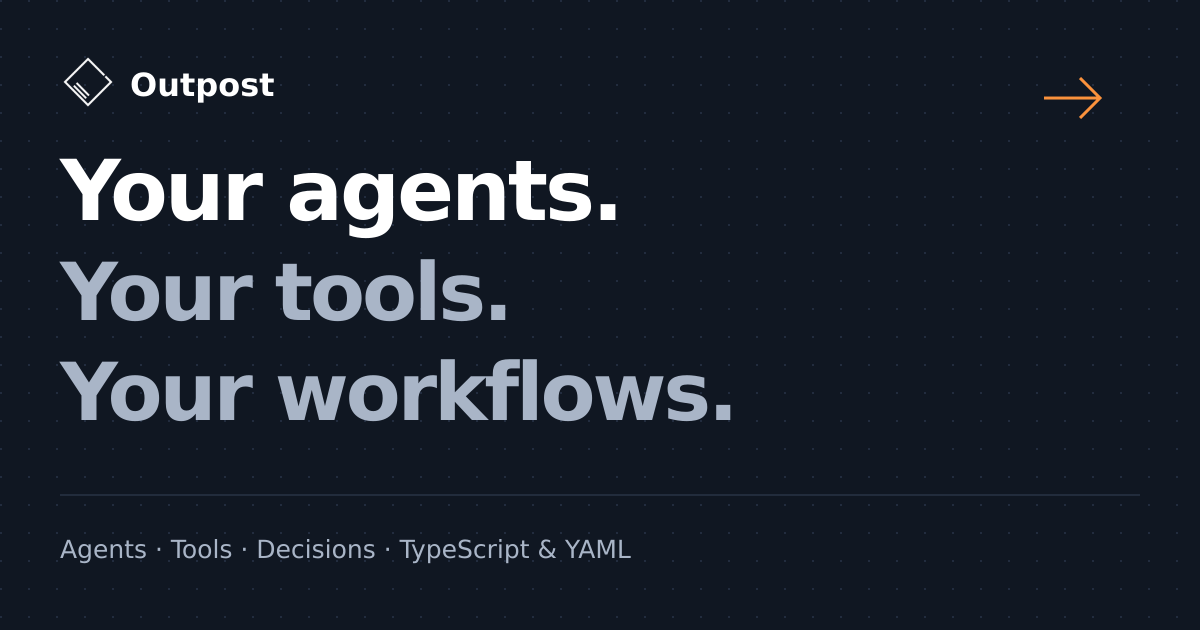
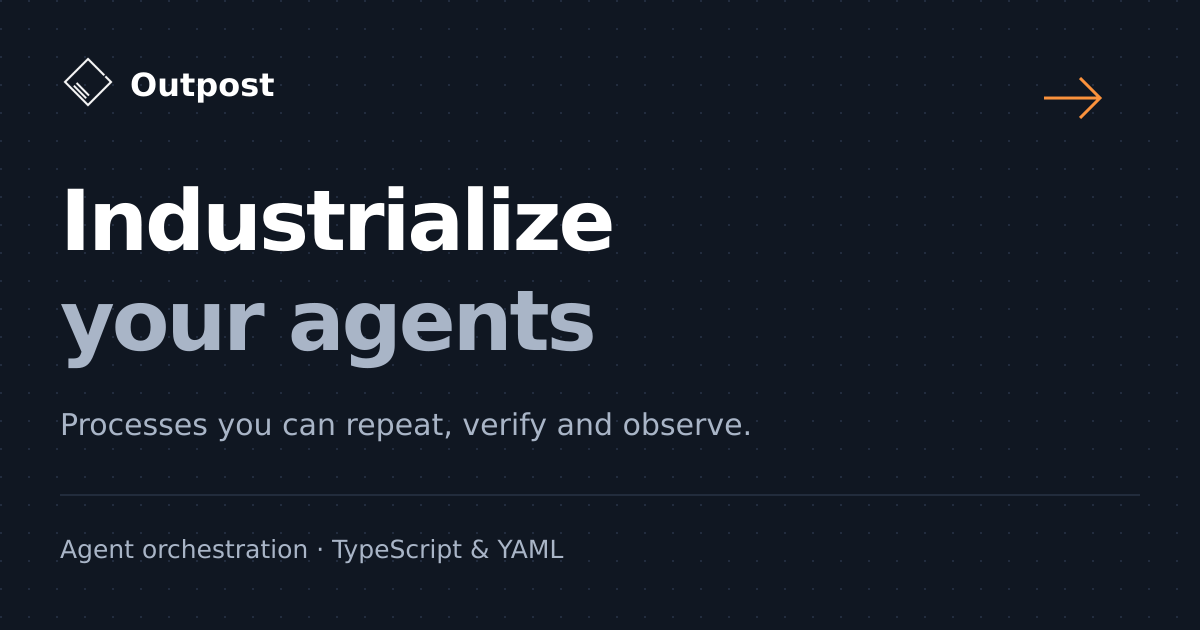
docs: lead the home with industrializing agents

Changed region(s): [[0.0308, 0.2413, 0.6167, 0.6937], [0.1233, 0.8444, 0.5242, 0.9048]]

diff --git a/docs/src/content/docs/fr/index.md b/docs/src/content/docs/fr/index.md
@@ -1,10 +1,10 @@
 ---
-title: Outpost — Workflows d’agents en TypeScript et YAML
-description: Reliez agents, outils et décisions humaines dans des workflows pour les mails, la veille, les documents, le logiciel et le travail que vous souhaitez automatiser.
+title: Outpost — Industrialiser vos agents
+description: Passez de la tâche ponctuelle au processus que vous pouvez relancer, vérifier et suivre. Orchestrez vos agents avec Outpost, en TypeScript ou en YAML.
 tableOfContents: false
 head:
   - tag: title
-    content: Outpost — Workflows d’agents en TypeScript et YAML
+    content: Outpost — Industrialiser vos agents
   - tag: meta
     attrs:
       property: og:type
@@ -12,19 +12,19 @@ head:
 landing:
   category: Orchestration d’agents · Bibliothèque TypeScript et CLI
   headline:
-    - Vos agents.
-    - Vos outils. Vos workflows.
-  lead: Reliez des agents, des actions et des décisions pour automatiser votre travail. Définissez ce qui doit se passer, ce qui mérite une vérification et quand vous voulez intervenir.
+    - Industrialiser
+    - vos agents
+  lead: Transformez une tâche réussie en un processus que votre équipe peut relancer, vérifier et suivre. Outpost orchestre vos agents, vos outils et vos validations dans des workflows en TypeScript ou en YAML.
   primary:
-    label: Voir les possibilités
+    label: Explorer les cas d’usage
     href: "#possibilities"
   secondary:
     label: Commencer avec le Guide
     href: guide/introduction/
   scenarios:
-    label: Imaginez votre prochain workflow
-    title: Quel travail aimeriez-vous déléguer ?
-    text: Un nouveau mail. Un dossier de documents. Une demande client. Partez d’une tâche que vous connaissez, puis composez les étapes selon vos besoins.
+    label: Du travail ponctuel au processus
+    title: Quel processus allez-vous industrialiser ?
+    text: Trier les mails, produire une veille, traiter des documents ou préparer un changement logiciel. Pour chaque tâche récurrente, définissez les étapes, le résultat attendu et les points de contrôle.
     requestLabel: La demande
     resultLabel: Ce que vous obtenez
     note: Ces workflows sont des exemples à composer. Vous connectez vos services avec votre code, des API ou des outils MCP ; Outpost orchestre les étapes, les agents et les pauses.
@@ -214,40 +214,40 @@ landing:
         result: Une branche avec les changements proposés et les résultats de vos vérifications.
         boundary: Vous choisissez les tests, le nombre de tentatives et la politique d’intégration.
   overview:
-    - icon: plug
-      title: Gardez vos outils habituels
-      text: Connectez vos fonctions, vos API et vos serveurs MCP. Donnez aux agents le contexte et les actions nécessaires à leur tâche.
     - icon: nodes
-      title: Donnez une suite à chaque étape
-      text: Transmettez les résultats, lancez les tâches indépendantes en parallèle et choisissez la prochaine action selon le résultat.
+      title: Formalisez le travail
+      text: Définissez les étapes, les dépendances et les résultats attendus. Votre équipe partage un workflow versionné, relançable avec de nouvelles entrées.
     - icon: approve
-      title: Gardez les décisions importantes
-      text: Exigez une vérification ou une réponse humaine avant de continuer. Choisissez où l’automatisation laisse place à votre jugement.
+      title: Encadrez l’autonomie
+      text: Choisissez les outils, l’environnement et les vérifications. Placez une approbation humaine avant les actions qui l’exigent.
+    - icon: replay
+      title: Préparez la suite
+      text: Configurez le suivi des exécutions et la persistance des étapes. Inspectez les échecs et décidez comment reprendre le travail interrompu.
   capabilities:
-    title: De quoi construire vos propres idées
-    text: Assemblez ces comportements autour de votre travail. Commencez par une tâche et ajoutez ce qui rend la suite utile.
+    title: Les contrôles qui rendent le travail exploitable
+    text: Un processus récurrent a besoin de résultats vérifiés, de limites et d’un chemin de reprise. Ajoutez ces contrôles là où votre travail les exige.
     items:
       - icon: split
-        title: Faire avancer plusieurs tâches
-        text: Lire différentes sources ou traiter des demandes indépendantes en parallèle, puis réunir leurs résultats.
+        title: Organiser le travail en parallèle
+        text: Exécutez les tâches indépendantes avec une concurrence bornée, puis transmettez leurs résultats aux étapes suivantes.
       - icon: braces
-        title: Obtenir des données exploitables
-        text: Valider une réponse structurée avant que votre code l’utilise pour décider ou agir.
+        title: Vérifier avant d’agir
+        text: Validez les réponses structurées et exécutez vos propres contrôles avant de transmettre le résultat à vos outils.
       - icon: repeat
-        title: Vérifier, corriger, réessayer
-        text: Transmettre les vérifications en échec à un agent, avec une limite au nombre de tentatives.
+        title: Borner les tentatives
+        text: Fixez des budgets et des limites de tentatives. Renvoyez les vérifications en échec à une boucle de correction bornée.
       - icon: pause
-        title: Faire une place à l’humain
-        text: Attendre une approbation ou une précision, puis continuer avec la réponse acceptée.
+        title: Garder la décision humaine
+        text: Suspendez le workflow pour une approbation ou une précision. Continuez avec la réponse acceptée.
       - icon: replay
-        title: Reprendre le travail plus tard
-        text: Enregistrer les étapes terminées et reprendre un workflow durable. Récupérer explicitement les tentatives interrompues.
+        title: Organiser la reprise
+        text: Avec des checkpoints persistés, reprenez un workflow durable. Inspectez et récupérez explicitement les tentatives interrompues.
       - icon: clock
-        title: Agir quand le travail arrive
-        text: Publier des tâches depuis un calendrier ou un webhook vérifié, puis les faire exécuter avec les budgets que vous fixez.
+        title: Suivre chaque exécution
+        text: Configurez les rapports, les événements et le stockage de l’état pour retrouver la progression et examiner les résultats.
   closing:
-    title: Que fera votre premier workflow ?
-    text: Choisissez une tâche que vous aimeriez déléguer. Le Guide présente les éléments et vous aide à les relier à votre propre travail.
+    title: Industrialisez une première tâche.
+    text: Choisissez un travail récurrent, définissez ce qui rend son résultat acceptable et construisez votre premier workflow. Le Guide vous accompagne de l’installation à l’exécution.
     link:
       label: Commencer avec le Guide
       href: guide/introduction/
@@ -291,9 +291,12 @@ landing:
 <span id="commencez-par-ce-qui-vous-attend-déjà"></span>
 <span id="vos-outils-habituels-votre-façon-de-les-assembler"></span>
 
-## Votre processus peut suivre plusieurs chemins
+<span id="votre-processus-peut-suivre-plusieurs-chemins"></span>
+<span id="choisissez-comment-vos-agents-travaillent"></span>
 
-Un agent peut interpréter une demande. Vos outils récupèrent le contexte et exécutent les actions. Votre code vérifie le résultat, choisit la suite ou demande à une personne de décider. Outpost relie ces étapes et suit leur exécution.
+## Un cadre explicite, de la demande au résultat
+
+Industrialiser, c’est définir ce qui se passe à chaque exécution. L’agent propose un résultat, votre code le vérifie et le workflow décide de la suite. Les actions sensibles peuvent attendre une approbation humaine.
 
 Voici un chemin possible. Vous choisissez les vérifications et les pauses utiles à votre travail.
 
@@ -315,7 +318,7 @@ Voici un chemin possible. Vous choisissez les vérifications et les pauses utile
 - **Agir**: Votre fonction enregistre le résultat, met à jour un service ou lance la tâche suivante.
   - Vos outils
 
-## Choisissez comment vos agents travaillent
+## Vos agents. Votre infrastructure. Vos règles.
 
 Utilisez un agent CLI comme Claude Code, Codex, Copilot, Kimi ou Antigravity, ou construisez une boucle d’agent avec un fournisseur de modèles et vos propres outils. Choisissez séparément l’environnement d’exécution : un conteneur, une sandbox cloud ou une exécution locale explicite.
 

diff --git a/docs/src/content/docs/index.md b/docs/src/content/docs/index.md
@@ -1,10 +1,10 @@
 ---
-title: Outpost — Agent workflows in TypeScript and YAML
-description: Connect agents, tools and human decisions into workflows for email, research, documents, software and the work you want to automate.
+title: Outpost — Industrialize your agents
+description: Turn one-off agent tasks into processes you can repeat, verify and observe. Orchestrate your agents with Outpost, in TypeScript or YAML.
 tableOfContents: false
 head:
   - tag: title
-    content: Outpost — Agent workflows in TypeScript and YAML
+    content: Outpost — Industrialize your agents
   - tag: meta
     attrs:
       property: og:type
@@ -12,19 +12,19 @@ head:
 landing:
   category: Agent orchestration · TypeScript library & CLI
   headline:
-    - Your agents.
-    - Your tools. Your workflows.
-  lead: Connect agents, actions and decisions to automate your work. Define what happens next, what needs a check and when you want to step in.
+    - Industrialize
+    - your agents
+  lead: Turn a successful task into a process your team can repeat, verify and observe. Outpost orchestrates your agents, tools and approvals in TypeScript or YAML workflows.
   primary:
-    label: Explore the possibilities
+    label: Explore use cases
     href: "#possibilities"
   secondary:
     label: Start with the Guide
     href: guide/introduction/
   scenarios:
-    label: Imagine your next workflow
-    title: What would you like to put to work?
-    text: A new message. A folder of documents. A request from a customer. Start with work you recognize, then shape the steps around your needs.
+    label: From one-off tasks to repeatable work
+    title: Which process will you industrialize?
+    text: Triage email, deliver research, process documents or prepare a software change. For each recurring task, define the steps, expected result and checkpoints.
     requestLabel: The request
     resultLabel: What you get
     note: These are workflows you can compose. You connect your services through your own code, APIs or MCP tools; Outpost orchestrates the steps, agents and pauses.
@@ -214,40 +214,40 @@ landing:
         result: A branch with the proposed changes and the results of your checks.
         boundary: You choose the tests, retry limits and integration policy.
   overview:
-    - icon: plug
-      title: Bring the tools you already use
-      text: Connect your functions, APIs and MCP servers. Let agents work with the context and actions your task needs.
     - icon: nodes
-      title: Give every step a clear next move
-      text: Pass results between tasks, run independent work in parallel and choose the next action from the outcome.
+      title: Define the work
+      text: Declare steps, dependencies and expected results. Give your team a versioned workflow they can run again with new inputs.
     - icon: approve
-      title: Keep the decisions that matter
-      text: Require a check or a human answer before continuing. Choose where automation ends and your judgment begins.
+      title: Set the boundaries
+      text: Choose tools, execution environments and checks. Require human approval before the actions that need it.
+    - icon: replay
+      title: Plan what happens next
+      text: Configure execution tracking and persist completed steps. Inspect failures and decide how to resume interrupted work.
   capabilities:
-    title: The building blocks for your own ideas
-    text: Combine these behaviors around your work. Start with a single task and add the pieces that make the next step useful.
+    title: The controls that make the work usable
+    text: Recurring work needs checked results, limits and a recovery path. Add these controls where your process needs them.
     items:
       - icon: split
-        title: Let several tasks make progress
-        text: Read different sources or process independent requests in parallel, then bring their results together.
+        title: Coordinate parallel work
+        text: Run independent tasks with bounded concurrency, then pass their results to the next steps.
       - icon: braces
-        title: Turn answers into usable data
-        text: Validate a structured answer before your code uses it to decide or act.
+        title: Verify before acting
+        text: Validate structured responses and run your own checks before passing results to your tools.
       - icon: repeat
-        title: Check, correct, try again
-        text: Give failed checks back to an agent, with a limit on how many attempts it can make.
+        title: Bound the attempts
+        text: Set budgets and attempt limits. Feed failed checks into a bounded correction loop.
       - icon: pause
-        title: Make room for a person
-        text: Pause for an approval or a missing detail, then continue with the accepted answer.
+        title: Keep human decisions
+        text: Pause the workflow for an approval or a missing detail. Continue with the accepted answer.
       - icon: replay
-        title: Pick up work later
-        text: Save completed steps and resume a durable workflow. Recover interrupted attempts explicitly.
+        title: Plan for recovery
+        text: Resume a durable workflow from persisted checkpoints. Inspect and explicitly recover interrupted attempts.
       - icon: clock
-        title: Run when the work arrives
-        text: Publish jobs from a schedule or verified webhook, and let workers execute them with the budgets you set.
+        title: Track every run
+        text: Configure reports, events and state storage to find progress and inspect results.
   closing:
-    title: What will your first workflow do?
-    text: Choose one task you would like to hand off. The Guide introduces the pieces and helps you connect them to your own work.
+    title: Industrialize your first task.
+    text: Choose recurring work, define what makes its result acceptable and build your first workflow. The Guide takes you from installation to execution.
     link:
       label: Start with the Guide
       href: guide/introduction/
@@ -291,9 +291,12 @@ landing:
 <span id="start-with-work-already-on-your-plate"></span>
 <span id="keep-your-tools-choose-how-they-work-together"></span>
 
-## Your process can take more than one path
+<span id="your-process-can-take-more-than-one-path"></span>
+<span id="choose-how-your-agents-work"></span>
 
-An agent can interpret a request. Your tools fetch context and perform actions. Your code checks the result, chooses what follows or asks a person to decide. Outpost connects those steps and keeps track of their execution.
+## An explicit process, from request to result
+
+Industrializing means defining what happens on every run. The agent proposes a result, your code checks it and the workflow determines what follows. Sensitive actions can wait for human approval.
 
 This is one possible path. You decide which checks and pauses your work needs.
 
@@ -315,7 +318,7 @@ This is one possible path. You decide which checks and pauses your work needs.
 - **Act**: Your function saves the result, updates a service or starts the next task.
   - Your tools
 
-## Choose how your agents work
+## Your agents. Your infrastructure. Your rules.
 
 Use a CLI agent such as Claude Code, Codex, Copilot, Kimi or Antigravity, or build an agent loop with a model provider and your own tools. Choose the execution environment separately: a container, a cloud sandbox or explicit local execution.
 

diff --git a/docs/AGENTS.md b/docs/AGENTS.md
@@ -7,7 +7,7 @@ Read this brief before changing `docs/` or user-facing documentation. The root `
 - Use Astro Starlight in `docs/`, with `.md` content and English as the default language.
 - English content lives in `docs/src/content/docs/`; French equivalents live under `fr/` with matching relative paths. Update both languages for user-facing changes.
 - The site has two navigation spaces in one shared frame (header, per-space sidebar, breadcrumbs): Guide and Reference, labelled “API” in both languages while its URLs stay under `reference/`. Guide owns practical learning, detailed behavior, CLI and configuration pages under `guide/`; Reference contains symbol pages only; its root redirects to the first symbol in the alphabetical sidebar. Retired family overviews redirect to their practical Guide pages. The bilingual changelog keeps its `project/changelog/` URLs and is reached only from the header’s version button, which stays visible on mobile; exclude it from sidebars, pagination, homepage links and search. The repository roadmap has been retired; do not restore it or its documentation pages. Within each reference family, list functions first, other values/types next and interfaces last. Symbols use distinct SVG icons for functions, interfaces, type aliases, classes and constants. Callable values use the function icon; callable type aliases keep the type icon. Firecracker and its options belong to Providers. Preserve existing symbol URLs and redirect moved guide routes; give case-colliding symbols distinct pages.
-- The bilingual documentation home presents Outpost as agent workflow orchestration across domains, including mail, research, documents and software. Keep scenario exploration on the page, distinguish caller-connected services from built-in capabilities, and lead interested readers to the Guide. Use the shared Markdown bays, illustrated cards and canvas; keep installation instructions in the Guide and typecheck any home snippets with the Guide examples.
+- The bilingual documentation home leads with industrializing agents: repeatable processes, explicit checks, execution tracking and configured recovery. Illustrate agent workflow orchestration across domains, including mail, research, documents and software. Keep scenario exploration on the page, distinguish caller-connected services from built-in capabilities, and lead interested readers to the Guide. Use the shared Markdown bays, illustrated cards and canvas; keep installation instructions in the Guide and typecheck any home snippets with the Guide examples.
 - Guide pages use short explanatory snippets and coherent executable files; do not split files solely to meet a line count. The recommended setup builds the agent image in a dedicated directory, then imports Outpost in user-written TypeScript scripts; keep generated `init` workflow projects optional. Setup is explained once and linked where needed; do not restore collapsible workshops or a parallel detailed-behavior tree. Repository examples use numbered `examples/<number>-<topic>/index.ts` entry points and public package imports. TypeScript examples use `.ts` filenames and imports; installation explains the ESM package setting once. Longer examples are split by responsibility into named files shown in tabs, with explicit imports and clear execution instructions. Diagrams use the pannable, zoomable canvas component to explain one relationship or decision at a time, with explicit conditions and correction loops. Keep desktop text readable at the initial zoom; mobile renders a vertical list with outgoing conditions. Use numbered steps for simple procedures; do not restore flow blocks. Downloadable complete examples are generated from named Markdown snippets and their explicit include declarations, never maintained as duplicate source files. Markdown snippets are typechecked against the package; selected offline snippets are executed. `docs/scripts/rehype-bays.mjs` lays every Guide, Reference and changelog page out as bays on the 12-track frame: code, contracts or entries on the right of their prose, code-free sections full width. Every Guide snippet or tab group needs a relevant explanation beside it; a title or API link alone is insufficient. Keep retired URLs in `docs/audit/guide-redirects.json`.
 - Reference signatures and property tables are generated; bilingual explanations live in `docs/reference-content/`. Normalize interfaces to Import, Parameters and properties, Signature, Related contracts, omitting empty sections, generic introductions and Purpose and behavior. Describe each function’s own behavior, ownership, result and relevant differences from neighboring functions. Every parameter/property needs an accurate description in its declaring contract’s context in both languages, including inherited and union fields; never substitute a generic referral or family-level boilerplate. Audit every reference and make generation reject missing descriptions. The migration inventory in `docs/audit/` preserves traceability and legacy routes.
 - The Reference sidebar is flat: one alphabetical list of every public symbol with its kind icon, without sections, families or overviews. The alphabetical order and first entry come from `docs/scripts/reference-navigation.mjs`. The header uses a square logo button, equal-width Guide/API buttons with decorative icons and source links with colored hover states.

diff --git a/docs/audit/guide-style.md b/docs/audit/guide-style.md
@@ -46,4 +46,4 @@ Preserve page routes, language parity and links, including existing section anch
 
 ## Documentation home
 
-The home helps visitors imagine workflows across domains before entering the Guide. Present concrete requests, steps and outcomes on the page, with software as one use case alongside mail, research, documents and customer requests. Clearly attribute service connections and side effects to the caller's tools. Scenario selectors must support keyboard navigation and leave content readable without JavaScript. Keep each scenario understandable on the home. Place one discreet, descriptive Guide link below each step, at most two when the step combines mechanisms, and align these links at the bottom of the cards. Link to the mechanisms actually illustrated; reserve API identifiers and tutorial instructions for the documentation they lead to. Keep both languages and social previews aligned.
+The home presents industrializing agents as turning individual tasks into repeatable processes with explicit checks, execution tracking and configured recovery. Help visitors explore workflows across domains before entering the Guide. Present concrete requests, steps and outcomes on the page, with software as one use case alongside mail, research, documents and customer requests. Clearly attribute service connections and side effects to the caller's tools. Scenario selectors must support keyboard navigation and leave content readable without JavaScript. Keep each scenario understandable on the home. Place one discreet, descriptive Guide link below each step, at most two when the step combines mechanisms, and align these links at the bottom of the cards. Link to the mechanisms actually illustrated; reserve API identifiers and tutorial instructions for the documentation they lead to. Keep both languages and social previews aligned.
